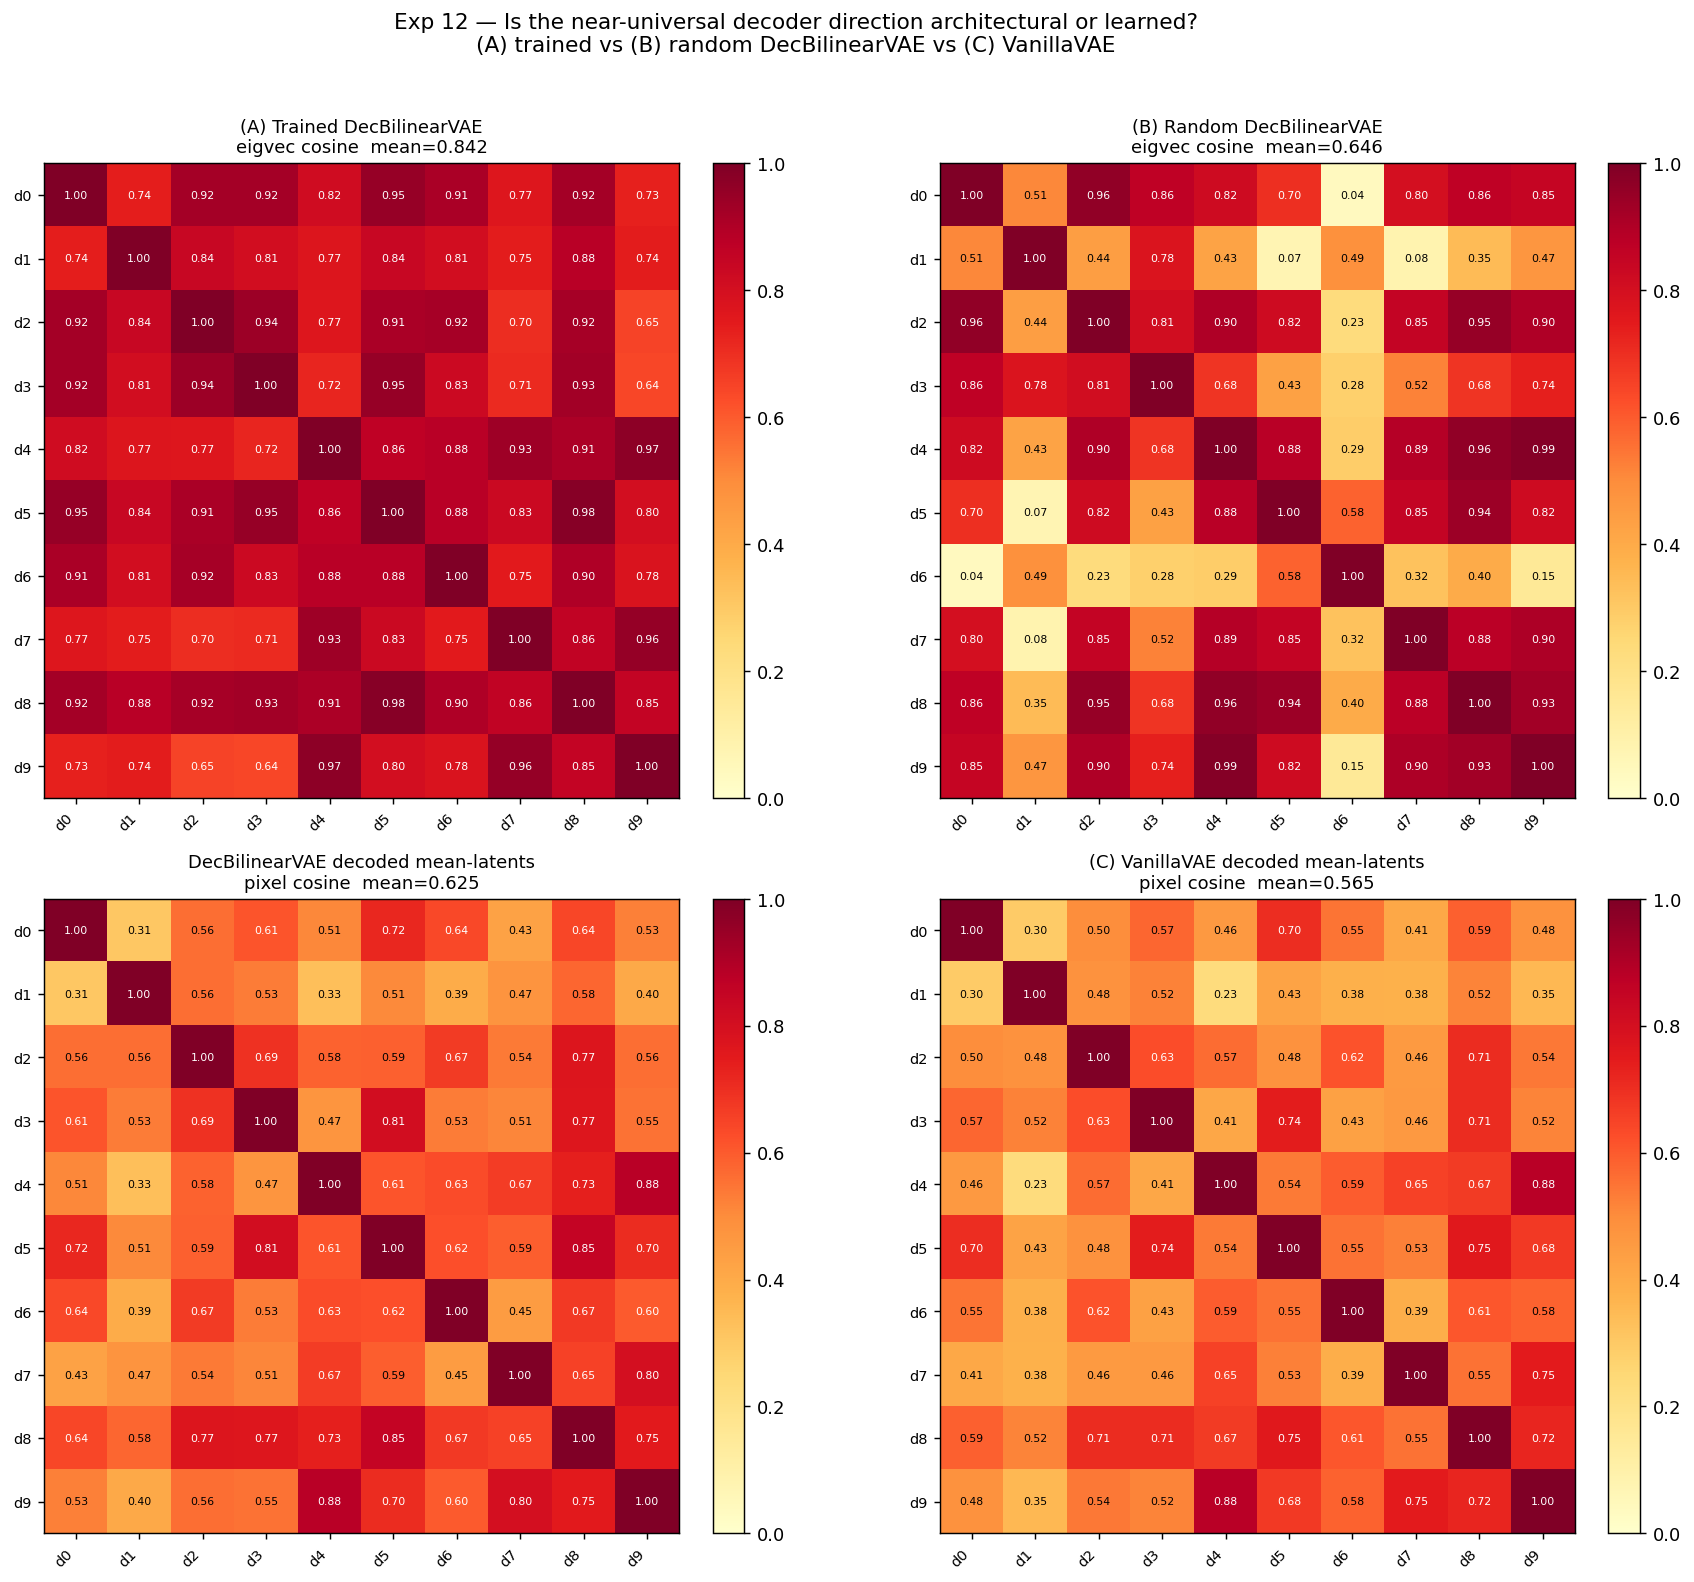
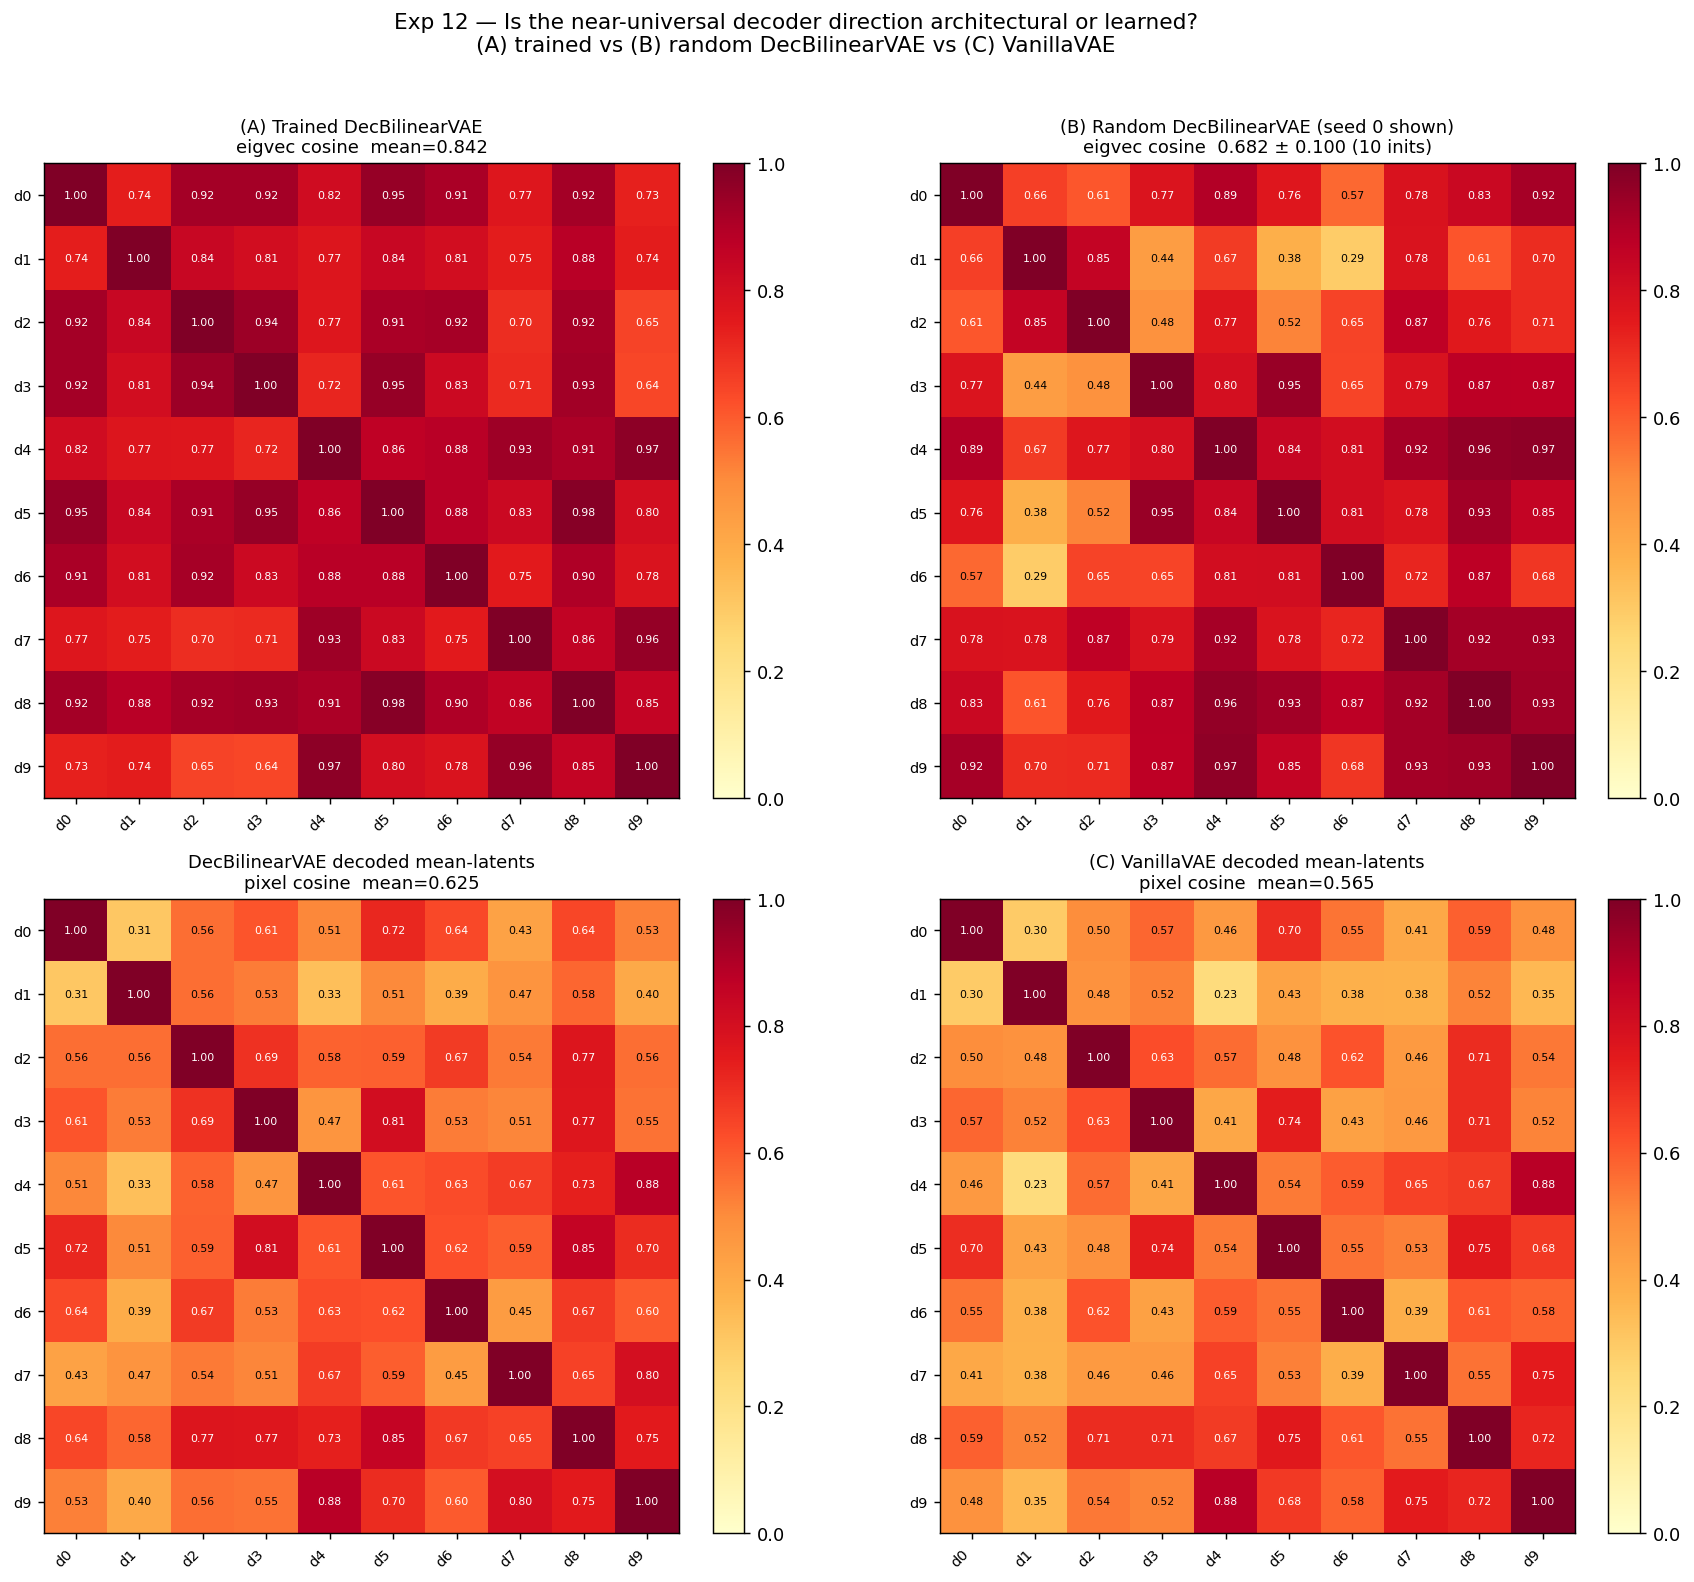
Seed exp12 random control and report mean over ten initializations

Changed region(s): [[0.5525, 0.0619, 0.9516, 0.5265]]

diff --git a/extension/bilinear-decoder/experiments/exp12_decoder_control.py b/extension/bilinear-decoder/experiments/exp12_decoder_control.py
@@ -7,7 +7,8 @@ eigenvector of Q_dec is nearly identical across all digit classes (mean cosine
 
 Three-way comparison:
   (A) Trained DecBilinearVAE      — the finding (mean ≈ 0.842)
-  (B) Random DecBilinearVAE       — untrained, random weights
+  (B) Random DecBilinearVAE       — untrained, random weights, measured over
+      ten seeded initializations (mean ± std; seed 0 shown in the figure).
       If (B) is also high: universality is structural (mathematical property
       of bilinear Q_dec).  If (B) is low: it is a learned property.
   (C) VanillaVAE                  — standard MLP decoder, no bilinear layer.
@@ -20,11 +21,13 @@ Interpretation guide:
     (A) high, (B) low,  (C) low  →  learned (bilinear decoder learns it during training)
     (A) high, (B) any,  (C) high →  general VAE property (not bilinear-specific)
 
-Figure saved:
+Outputs:
     figures/mnist/exp12_decoder_control.png
+    figures/mnist/exp12_results.json
 """
 
 import os
+import json
 import torch
 import torch.nn as nn
 import torch.nn.functional as F
@@ -129,9 +132,17 @@ def main():
     trained = DecBilinearVAE(); load_checkpoint(trained, CKPT_TRAINED); trained.eval()
     mat_trained = _dec_crossclass_similarity(trained, mean_imgs)
 
-    # (B) Random (untrained) DecBilinearVAE
-    random_model = DecBilinearVAE(); random_model.eval()
-    mat_random   = _dec_crossclass_similarity(random_model, mean_imgs)
+    # (B) Random (untrained) DecBilinearVAE — ten seeded initializations,
+    # so the baseline is a distribution rather than a single draw (seed 0's
+    # similarity matrix is the one shown in the figure).
+    random_means, mat_random = [], None
+    for seed in range(10):
+        torch.manual_seed(seed)
+        random_model = DecBilinearVAE(); random_model.eval()
+        mat = _dec_crossclass_similarity(random_model, mean_imgs)
+        random_means.append(float(mat[mat < 1.0].mean()))
+        if seed == 0:
+            mat_random = mat
 
     # (C) Trained VanillaVAE — decoded class-mean latent similarity
     vanilla = VanillaVAE()
@@ -146,22 +157,25 @@ def main():
     def _off_diag_mean(m):
         return m[m < 1.0].mean()
 
-    print(f"\n(A) Trained DecBilinearVAE  (eigvec cosine):          mean={_off_diag_mean(mat_trained):.3f}")
-    print(f"(B) Random  DecBilinearVAE  (eigvec cosine):          mean={_off_diag_mean(mat_random):.3f}")
-    print(f"(C) VanillaVAE             (decoded mean-lat cosine): mean={_off_diag_mean(mat_vanilla_dec):.3f}")
-    print(f"    DecBilinearVAE         (decoded mean-lat cosine): mean={_off_diag_mean(mat_dec_means):.3f}")
-
-    # Interpretation
     trained_mean = _off_diag_mean(mat_trained)
-    random_mean  = _off_diag_mean(mat_random)
+    random_mean  = float(np.mean(random_means))
+    random_std   = float(np.std(random_means))
     vanilla_mean = _off_diag_mean(mat_vanilla_dec)
     dec_mean_lat = _off_diag_mean(mat_dec_means)
 
+    print(f"\n(A) Trained DecBilinearVAE  (eigvec cosine):          mean={trained_mean:.3f}")
+    print(f"(B) Random  DecBilinearVAE  (eigvec cosine):          "
+          f"{random_mean:.3f} ± {random_std:.3f} over 10 seeded inits "
+          f"(range {min(random_means):.3f}–{max(random_means):.3f})")
+    print(f"(C) VanillaVAE             (decoded mean-lat cosine): mean={vanilla_mean:.3f}")
+    print(f"    DecBilinearVAE         (decoded mean-lat cosine): mean={dec_mean_lat:.3f}")
+
     print("\nInterpretation:")
-    if random_mean > 0.7:
-        print("  → High similarity in random model: universality is STRUCTURAL (bilinear Q_dec geometry)")
-    else:
-        print("  → Low similarity in random model: universality is LEARNED during training")
+    print(f"  → Untrained band {random_mean:.2f} ± {random_std:.2f} is already high: "
+          "a large part of the shared direction is STRUCTURAL (bilinear Q_dec geometry)")
+    if trained_mean > random_mean + random_std:
+        print(f"  → Trained value {trained_mean:.3f} sits above the untrained band: "
+              "training AMPLIFIES the shared direction")
     if vanilla_mean > 0.7:
         print("  → High similarity in VanillaVAE: this is a general VAE decoder property")
     else:
@@ -175,7 +189,8 @@ def main():
         (mat_trained,  axes[0, 0],
          f"(A) Trained DecBilinearVAE\neigvec cosine  mean={trained_mean:.3f}"),
         (mat_random,   axes[0, 1],
-         f"(B) Random DecBilinearVAE\neigvec cosine  mean={random_mean:.3f}"),
+         f"(B) Random DecBilinearVAE (seed 0 shown)\n"
+         f"eigvec cosine  {random_mean:.3f} ± {random_std:.3f} (10 inits)"),
         (mat_dec_means, axes[1, 0],
          f"DecBilinearVAE decoded mean-latents\npixel cosine  mean={dec_mean_lat:.3f}"),
         (mat_vanilla_dec, axes[1, 1],
@@ -192,6 +207,18 @@ def main():
                  fontsize=12, y=1.01)
     fig.tight_layout()
     save_fig(fig, "figures/mnist/exp12_decoder_control.png")
+
+    with open("figures/mnist/exp12_results.json", "w") as f:
+        json.dump({
+            "trained_eigvec_cosine_mean": float(trained_mean),
+            "random_eigvec_cosine_mean": random_mean,
+            "random_eigvec_cosine_std": random_std,
+            "random_eigvec_cosine_per_seed": random_means,
+            "random_n_seeds": len(random_means),
+            "vanilla_decoded_cosine_mean": float(vanilla_mean),
+            "dec_bilinear_decoded_cosine_mean": float(dec_mean_lat),
+        }, f, indent=2)
+    print("Results written to figures/mnist/exp12_results.json")
 
 
 if __name__ == "__main__":

diff --git a/extension/bilinear-decoder/README.md b/extension/bilinear-decoder/README.md
@@ -29,7 +29,7 @@ Decoder:  z(10)  → Linear(256, no bias) → BilinearLayer(512) → Linear(784,
 | Decoder cross-class eigvec similarity, raw targets (Fashion-MNIST) | **0.910** |
 | Decoder cross-class eigvec similarity, centered targets (MNIST, exp13) | **0.429** |
 | Encoder cross-class eigvec similarity (class-mean μ encodings, exp09) | **0.350** |
-| Random (untrained) DecBilinearVAE cross-class similarity | **0.646** |
+| Random (untrained) DecBilinearVAE cross-class similarity | **0.682 ± 0.100** (10 seeded inits) |
 | VanillaVAE decoded mean-latent similarity | 0.565 |
 | Rank of generative subspace per class | 2–3 positive eigenvectors |
 | Seed consistency (pixel-space cosine) | **0.993** |
@@ -41,7 +41,7 @@ With raw targets the decoder has a **near-universal generative direction** — t
 
 **Mass-ratio correlation is fragile (exp10):** the Pearson r = −0.697 (p = 0.025) hinges on outlier class d1 (mass ratio 0.243 vs ≈ 0.09–0.13 for all other classes). Spearman rank correlation is not significant (ρ = −0.479, p = 0.162), and leave-one-out Pearson spans r ∈ [−0.773, −0.324]; dropping d1 alone gives r = −0.324 (p = 0.395). The correlation should not be treated as established.
 
-Exp 12 shows a randomly initialised DecBilinearVAE already has high cross-class similarity (**0.646**) — well above the VanillaVAE decoded-mean-latent baseline (0.565) — and training *amplifies* it to 0.842. The near-universal direction is therefore **seeded by the bilinear Q_dec geometry at initialisation and reinforced by training**, rather than purely learned (as for a vanilla decoder) or purely architectural.
+Exp 12 shows a randomly initialised DecBilinearVAE already has high cross-class similarity (**0.682 ± 0.100** over ten seeded inits) — well above the VanillaVAE decoded-mean-latent baseline (0.565) — and training *amplifies* it to 0.842, above the top of the untrained band. The near-universal direction is therefore **seeded by the bilinear Q_dec geometry at initialisation and reinforced by training**, rather than purely learned (as for a vanilla decoder) or purely architectural.
 
 ## The resolution (exp 13): the universal direction is mostly a target artefact
 
